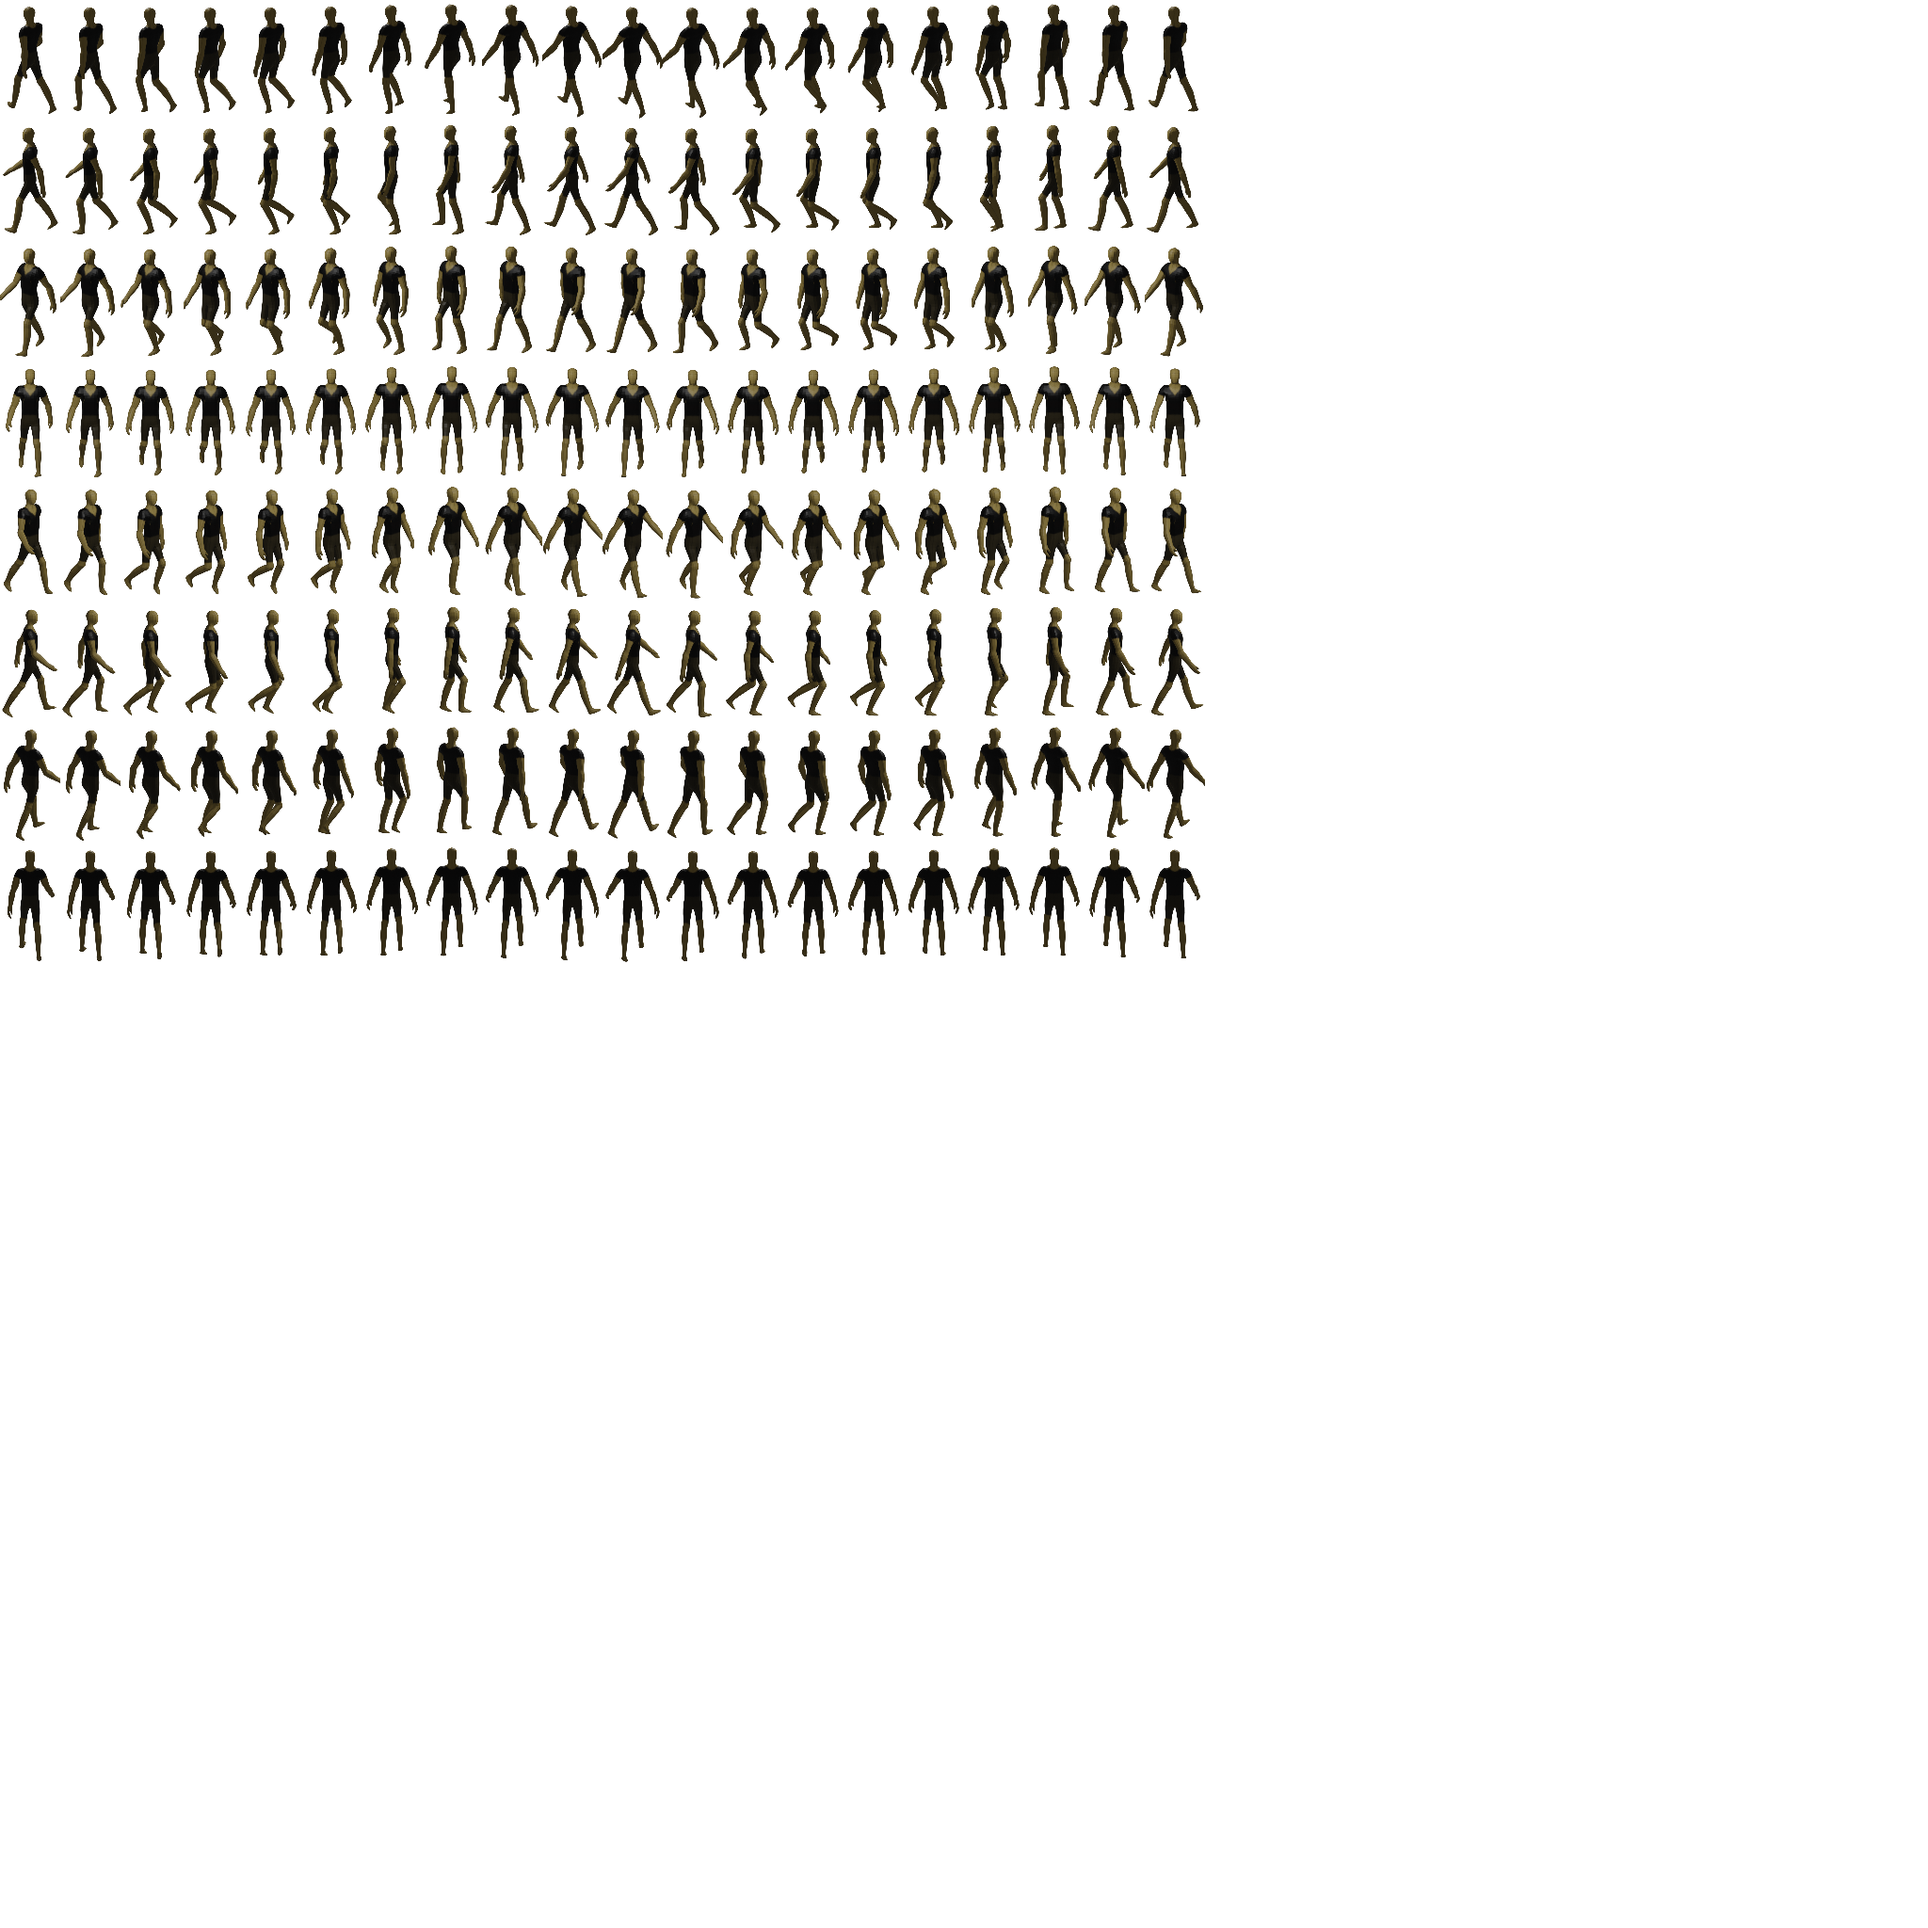
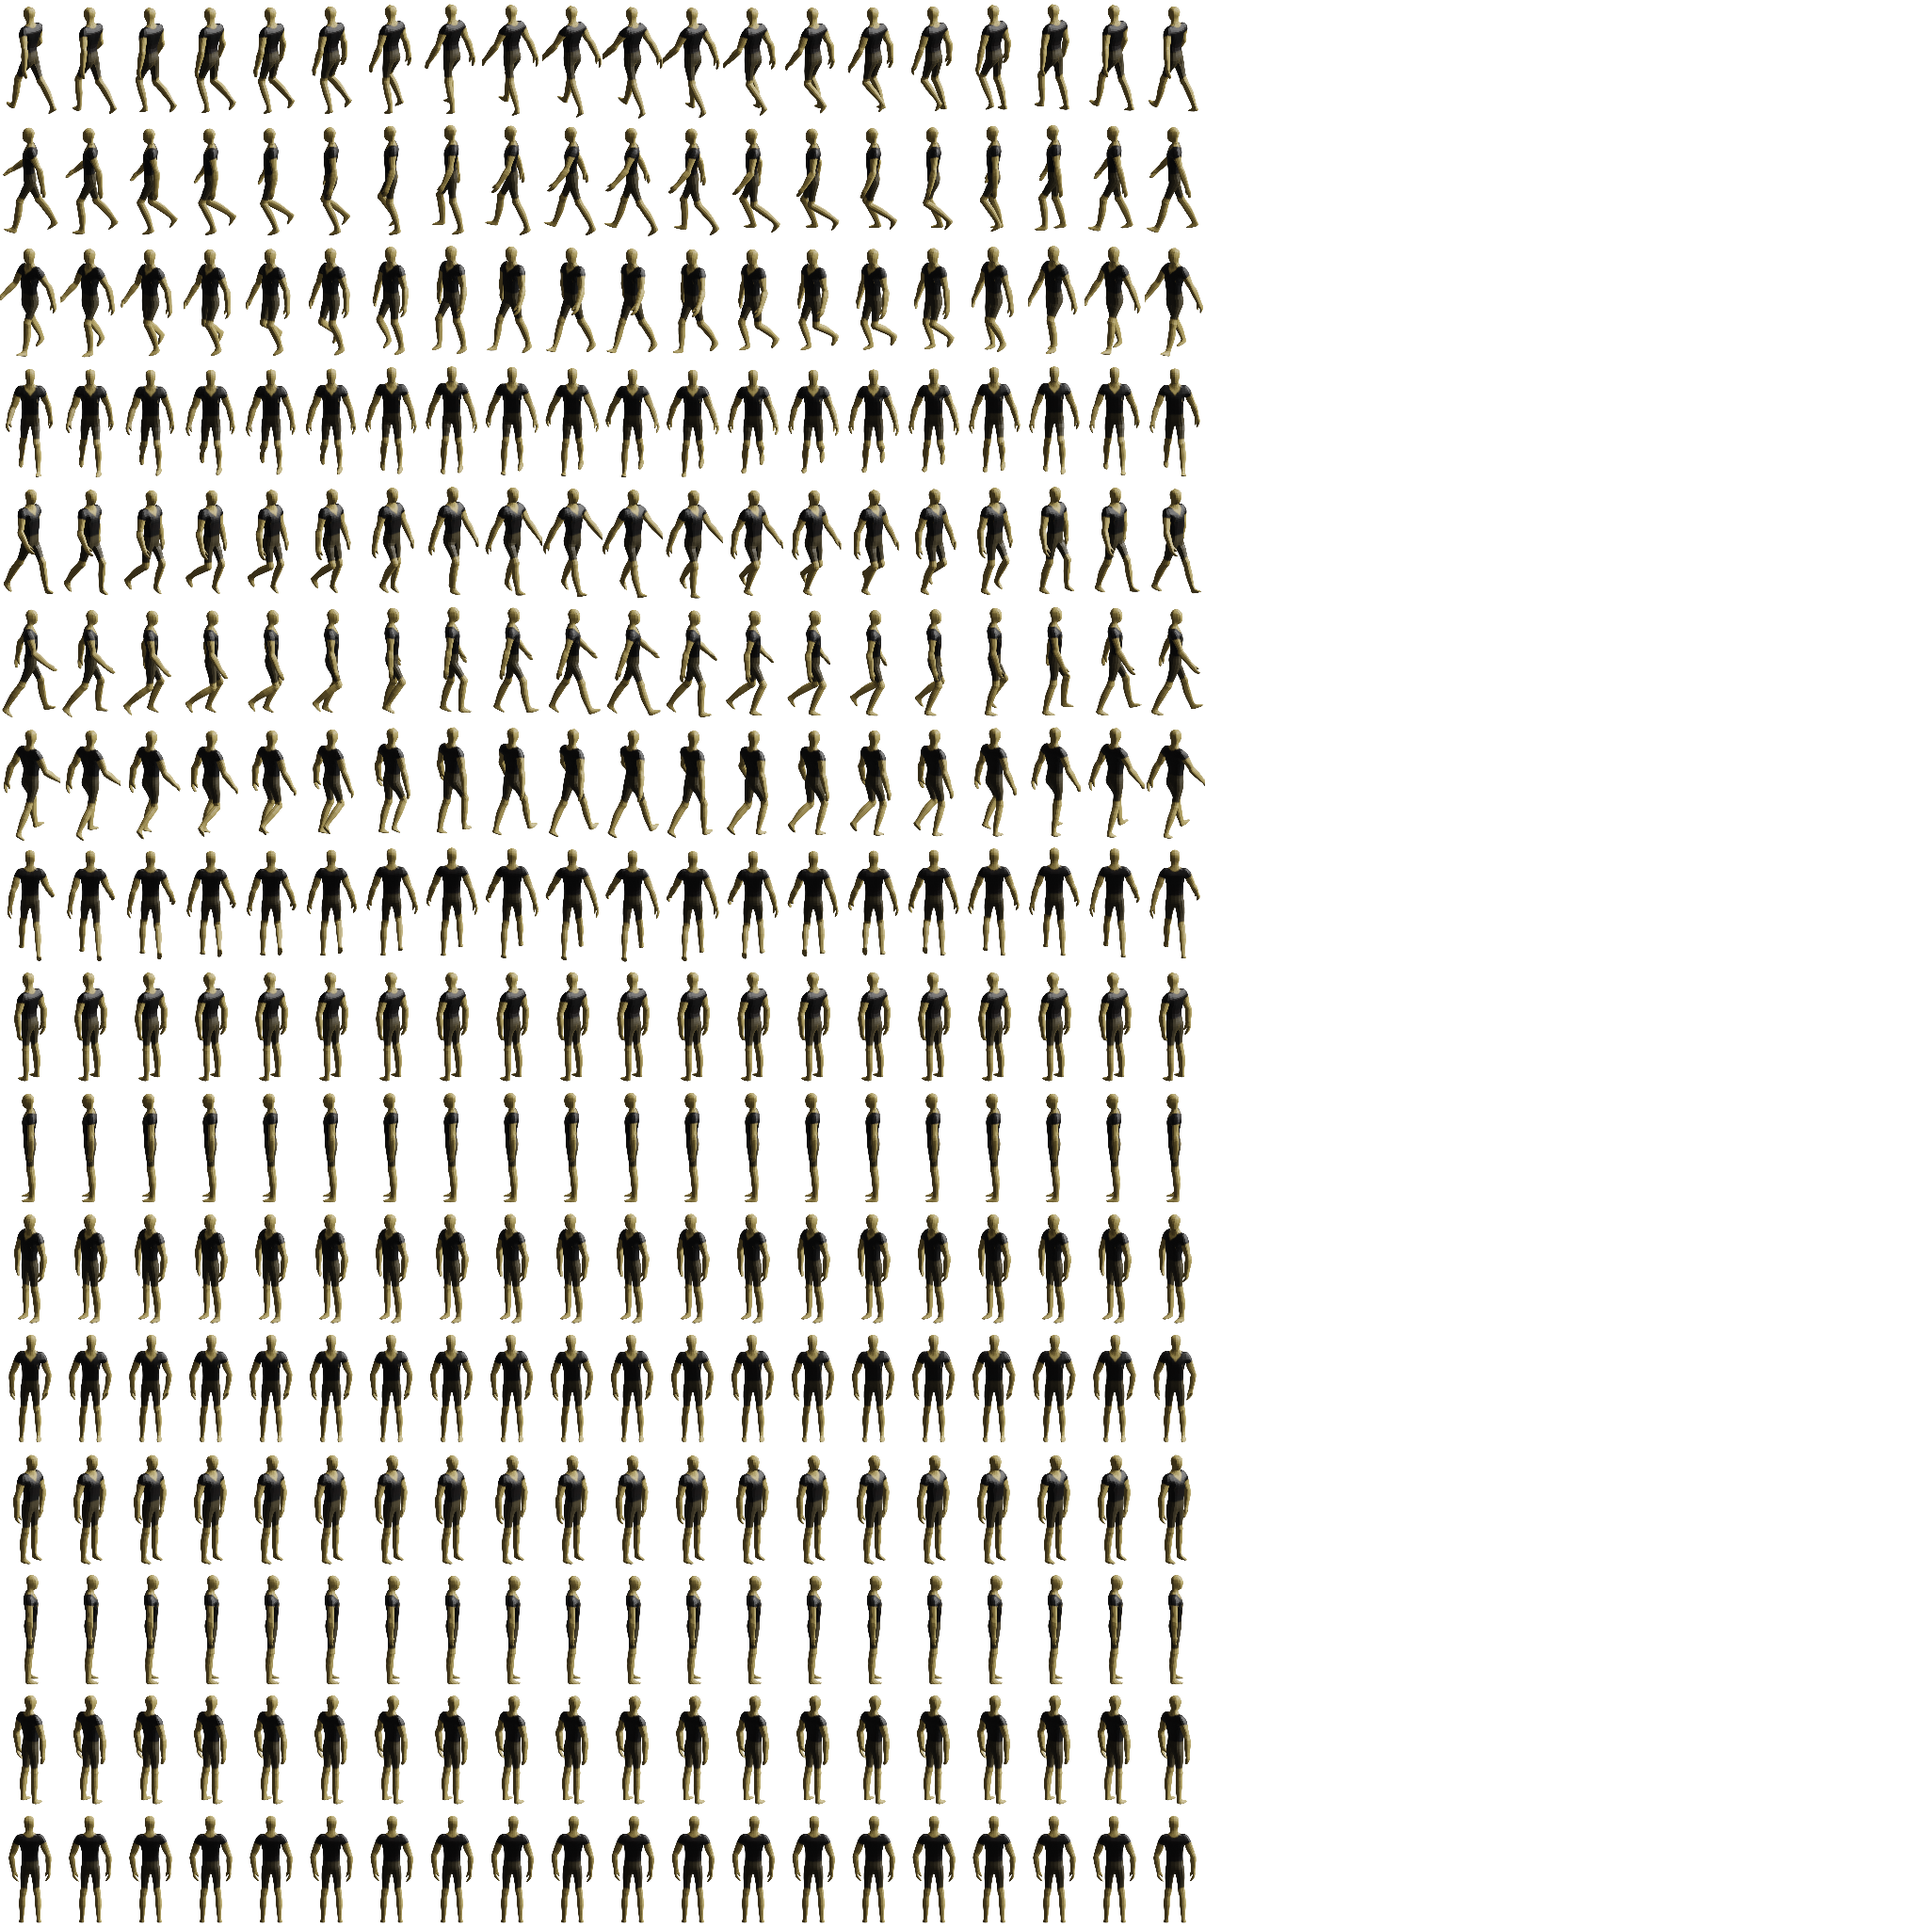
Add speed controls to animator Take cam zoom into consideration in tilemap.mouseIsoPos Add idle animation to IsoAgent Fix followpath visual bugs and general jankyness

Changed region(s): [[0.0, 0.3438, 0.625, 1.0], [0.0, 0.0, 0.625, 0.2812], [0.25, 0.3125, 0.3438, 0.3438]]

diff --git a/classic/isometric.js b/classic/isometric.js
@@ -72,6 +72,7 @@ class Tilemap extends Drawable {
     updateMousePos() {
         this.mouseIsoPos = vec3.clone(this.game.mousePos);
         vec3.add(this.mouseIsoPos, this.mouseIsoPos, this.game.camera.getFix());
+        vec3.div(this.mouseIsoPos, this.mouseIsoPos, this.game.camera.scale);
         this.cartesianToIso(this.mouseIsoPos);
     }
 
@@ -134,7 +135,7 @@ class Tilemap extends Drawable {
         vec3.add(
             camPos,
             camPos,
-            [game.camera.size[0] / 2, 0, 0]);
+            [0, -game.camera.size[1] / 2, 0]);
         this.cartesianToIso(camPos);
         return vec3.distance(camPos, pos);
     }
@@ -147,17 +148,10 @@ class Tilemap extends Drawable {
     }
 
     getSelection() {
-        var begin = vec2.fromValues(
-            this.selectionIsoBegin[0] / this.game.camera.scale[0],
-            this.selectionIsoBegin[1] / this.game.camera.scale[1]);
-        var end = vec2.fromValues(
-            this.selectionIsoEnd[0] / this.game.camera.scale[0],
-            this.selectionIsoEnd[1] / this.game.camera.scale[1]);
-
         var from = vec2.create();
         var to = vec2.create();
-        vec2.min(from, begin, end);
-        vec2.max(to, begin, end);
+        vec2.min(from, this.selectionIsoBegin, this.selectionIsoEnd);
+        vec2.max(to, this.selectionIsoBegin, this.selectionIsoEnd);
         vec2.floor(from, from);
         vec2.ceil(to, to);
         return [from, to];
@@ -266,13 +260,12 @@ class Tilemap extends Drawable {
 
         this.gl.uniform2fv(
             this.game.shaders.isoTilemap.unif.selectedTile,
-            [this.mouseIsoPos[0] / this.game.camera.scale[0],
-            this.mouseIsoPos[1] / this.game.camera.scale[1]]);
+            [this.mouseIsoPos[0], this.mouseIsoPos[1]]);
 
         this.gl.uniform2fv(
             this.game.shaders.isoTilemap.unif.selectionBegin,
-            [this.selectionIsoBegin[0] / this.game.camera.scale[0],
-            this.selectionIsoBegin[1] / this.game.camera.scale[1]]);
+            [this.selectionIsoBegin[0],
+             this.selectionIsoBegin[1]]);
     
         this.gl.uniform1i(this.game.shaders.isoTilemap.unif.selectionMode, this.game.selectionMode);
         this.gl.uniform4fv(this.game.shaders.isoTilemap.unif.selectionColor, this.game.selectionColor);
@@ -538,14 +531,14 @@ class IsoSprite extends IsometricDrawable {
 
 
 const animDirs = [
-    "walkSouth",
-    "walkSouthEast",
-    "walkEast",
-    "walkNorthEast",
-    "walkNorth",
-    "walkNorthWest",
-    "walkWest",
-    "walkSouthWest"
+    "South",
+    "SouthEast",
+    "East",
+    "NorthEast",
+    "North",
+    "NorthWest",
+    "West",
+    "SouthWest"
 ];
 
 let AgentStates = {
@@ -561,7 +554,9 @@ class IsoAgent extends IsoSprite {
         tilemap,
         frame,
         tileSetSize,
-        anchor
+        anchor,
+        speed,
+        animSpeed
     ) {
         super(
             entity,
@@ -571,12 +566,21 @@ class IsoAgent extends IsoSprite {
             tileSetSize,
             anchor);
 
-        this.anim = entity.addComponent(Animator, this);
+        this.anim = entity.addComponent(Animator, this, animSpeed);
         this.idle();
 
-        this.speed = 1.6; // tiles / second
+        this.speed = speed; // tiles per second
+
+        this.animIndex = 0;
 
         entity.registerCall("update", this.update.bind(this));
+    }
+
+    dump() {
+        const minObj = super.dump();
+        minObj.speed = this.speed;
+        minObj.animSpeed = this.anim.speed;
+        return minObj;
     }
 
     idle() {
@@ -589,7 +593,15 @@ class IsoAgent extends IsoSprite {
 
     followPath(path) {
         this._path = path;
+
+        this._init_dist = vec2.distance(
+            this.position, this._path[1]);
+
+        this._path[0] = [this.position[0], this.position[1]];
         this._state = AgentStates.followPath;
+        this._start_index = 0;
+        this._target_index = 1;
+        this._delta = 0; 
     }
 
     nextTarget() {
@@ -597,33 +609,44 @@ class IsoAgent extends IsoSprite {
     }
 
     update() {
+
         switch(this._state) {
             case AgentStates.idle :
-                this.anim.stop();
+                this.anim.play(
+                    this.game.animations["idle" + animDirs[this.animIndex]],
+                    true); 
                 break;
 
             case AgentStates.followPath :
 
-                this._delta += this.speed * this.game.deltaTime;
+                this._delta += (this.speed * this.game.deltaTime) / this._init_dist;
                 if (this._delta >= 1) {
-                    this._delta = 0;
                     this.nextTarget();
+                    this._delta = 0;
 
                     if (this._target_index == this._path.length) {
                         this.idle();
                         return;
                     }
+
+                    this._init_dist = vec2.distance(
+                        this.position, this._path[this._target_index]);
                 }
 
                 
                 let delta = vec2.create();
                 vec2.sub(delta, this._path[this._target_index], this._path[this._start_index]);
                 let radians = Math.atan2(...delta);
-                
-                this.direction = radians * (180 / Math.PI);
-                let index = Math.floor(this.direction / 45);
 
-                this.anim.play(this.game.animations[animDirs[index]], true); 
+                this.direction = radians * (180 / Math.PI);
+                this.animIndex = Math.floor(this.direction / 45);
+
+                if (this.animIndex < 0)
+                    this.animIndex = 8 + this.animIndex;
+
+                this.anim.play(
+                    this.game.animations["walk" + animDirs[this.animIndex]],
+                    true); 
 
                 vec3.lerp(
                     this.position,

diff --git a/classic/prefabs.js b/classic/prefabs.js
@@ -274,7 +274,6 @@ export async function initNavMeshEditor() {
             rectVerts));
 
     editorCollider.addHandler("click", function() {
-        console.log("click");
         localPos = vec3.clone(game.mousePos);
         vec3.sub(localPos, localPos, compTilemapSprite.position);
         
@@ -352,17 +351,13 @@ export function initAgent() {
             game,
             [0, 0, 0], [1, 1, 1], 0, rectVerts));
 
-    collider.clickHandler = function() {
-        console.log("clicked agent");
-    }
-
-    collider.handleEnter = function(other) {
+    collider.addHandler("enter", function(other) {
         collider.debugColor = [1, 1, 1, .2];
-    }
+    });
 
-    collider.handleExit = function(other) {
+    collider.addHandler("exit", function(other) {
         collider.debugColor = [.1, .1, .1, .2];
-    }
+    });
 
     navAgent.registerCall(
         "update",
@@ -388,8 +383,18 @@ export function initAgent() {
             collider.updateRect();
         });
 
-    pathfinder.findPath(
-        [1, 13], [23, 12]).then((p) => agent.followPath(p))
+    let compTilemapCollider = tilemap.entity.getComponent(Collider);
+
+    compTilemapCollider.addHandler("click", function() {
+
+        const start = [agent.position[0], agent.position[1]];
+        const end = [tilemap.mouseIsoPos[0], tilemap.mouseIsoPos[1]];
+
+        if (vec2.dist(start, end) > 2)
+            pathfinder.findPath(start, end).then((p) =>
+                agent.followPath(p));
+    });
+
 
 
 }

diff --git a/classic/animator.js b/classic/animator.js
@@ -2,8 +2,10 @@ import { Component } from "/classic/ecs.js"
 
 
 class Animator extends Component {
-    constructor(entity, target) {
+    constructor(entity, target, speed) {
         super(entity);
+        this.speed = speed;
+
         this.animation = null;
         this.counter = 0.0;
         this.frame = 0;
@@ -18,12 +20,18 @@ class Animator extends Component {
     dump() {
         const minObj = super.dump();
         minObj.target = this.target.toGameObjectString();
+        minObj.speed = this.speed;
         return minObj;
     }
 
     update() {
         if (this._playing || this.repeat) {
-            this.counter += this.game.deltaTime * (this.animation.rate);
+
+            this.counter += 
+                this.game.deltaTime *
+                this.animation.rate *
+                this.speed;
+
             let intCounter = Math.floor(this.counter);
             if (intCounter >= this.animation.sequence.length) {
                 intCounter = 0;

diff --git a/classic/pathfinder.js b/classic/pathfinder.js
@@ -32,6 +32,11 @@ function vecAdd(a, b) {
     return [a[0] + b[0], a[1] + b[1]];
 }
 
+function vecFloor(v) {
+    v[0] = Math.floor(v[0]);
+    v[1] = Math.floor(v[1]);
+}
+
 function vecDistance(a, b) {
     const deltaX = a[0] - b[0];
     const deltaY = a[1] - b[1];
@@ -149,6 +154,9 @@ function aStarPath(mapName, from, to) {
     let fCosts = new Map2D(map.size, Number.MAX_SAFE_INTEGER);
     let inOpen = new Map2D(map.size, false); 
     let cameFrom = new Map2D(map.size, false);
+
+    vecFloor(from);
+    vecFloor(to);
 
     const neighbours = [
         [-1, -1],
